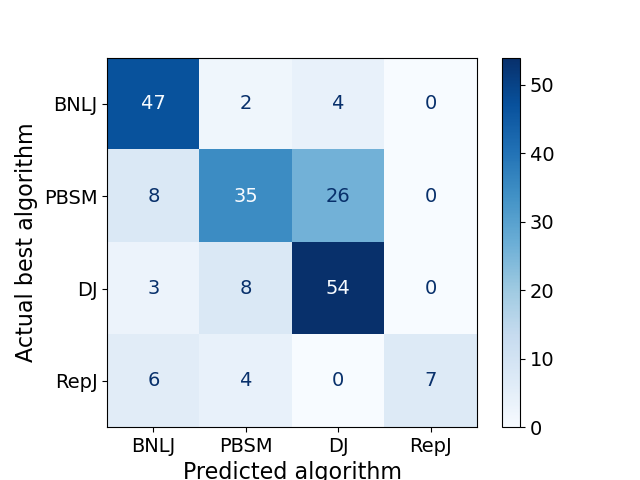
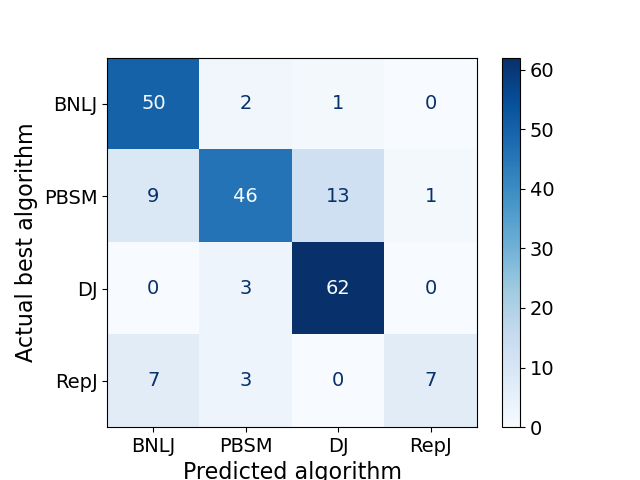
Update data

diff --git a/classification_model.py b/classification_model.py
@@ -6,6 +6,8 @@ from sklearn.ensemble import RandomForestClassifier
 from sklearn.tree import DecisionTreeClassifier
 from sklearn.metrics import plot_confusion_matrix
 from sklearn.metrics import confusion_matrix
+import time
+import numpy as np
 
 import datasets
 from model_interface import ModelInterface
@@ -31,8 +33,6 @@ class ClassificationModel(ModelInterface):
                                  'cardinality_y',	'AVG area_y', 'AVG x_y', 'AVG y_y']
     feature_set1 = ['cardinality_x', 'AVG area_x', 'AVG x_x', 'AVG y_x',
                     'cardinality_y', 'AVG area_y', 'AVG x_y', 'AVG y_y']
-    feature_set1 = ['AVG area_x', 'AVG x_x', 'AVG y_x',
-                    'AVG area_y', 'AVG x_y', 'AVG y_y']
     # Descriptors + histograms
     drop_columns_feature_set2 = ['dataset1', 'dataset2', 'x1_x', 'y1_x', 'x2_x', 'y2_x', 'x1_y', 'y1_y', 'x2_y', 'y2_y',
                                  'join_selectivity', 'mbr_tests_selectivity', 'total_area_x', 'total_margin_x',
@@ -50,9 +50,13 @@ class ClassificationModel(ModelInterface):
     # Join cardinality + MBRs of 4 algorithms
     feature_set4 = ['join_cardinality', 'mbr_bnlj', 'mbr_pbsm', 'mbr_dj', 'mbr_repj']
     feature_set5 = ['join_cardinality', 'mbr_bnlj', 'mbr_pbsm', 'mbr_dj', 'mbr_repj', 'block_size_x', 'block_size_y']
+    feature_set6 = ['cardinality_x', 'AVG area_x', 'AVG x_x', 'AVG y_x', 'E0_x', 'E2_x', 'block_size_x', 'total_area_x', 'total_margin_x', 'total_overlap_x', 'size_std_x', 'block_util_x', 'total_blocks_x',
+                    'cardinality_y', 'AVG area_y', 'AVG x_y', 'AVG y_y', 'E0_y', 'E2_y', 'block_size_y', 'total_area_y', 'total_margin_y', 'total_overlap_y', 'size_std_y', 'block_util_y', 'total_blocks_y',
+                    'intersection_area1', 'intersection_area2', 'jaccard_similarity', 'e0', 'e2', 'join_cardinality', 'mbr_bnlj', 'mbr_pbsm', 'mbr_dj', 'mbr_repj']
+    feature_set7 = ['join_cardinality', 'mbr_bnlj', 'mbr_pbsm', 'mbr_dj', 'mbr_repj', 'block_size_x', 'block_size_y', 'intersection_area1', 'intersection_area2', 'jaccard_similarity']
 
     DROP_COLUMNS = []
-    SELECTED_COLUMNS = feature_set4
+    SELECTED_COLUMNS = feature_set5
 
     def __init__(self, model_name):
         self.clf_model = DecisionTreeClassifier()
@@ -73,6 +77,18 @@ class ClassificationModel(ModelInterface):
         # Fit and save the model
         model = self.clf_model.fit(X_train, y_train)
         pickle.dump(model, open(model_path, 'wb'))
+
+        # Feature importances
+        importances = model.feature_importances_
+
+        output_f = open('data/temp/feature_importances.csv', 'w')
+        output_f.writelines('feature_name,importance_score\n')
+
+        for fname, fscore in zip(ClassificationModel.SELECTED_COLUMNS, importances):
+            print('{},{}'.format(fname, fscore))
+            output_f.writelines('{},{}\n'.format(fname, fscore))
+
+        output_f.close()
 
     def test(self, tabular_path: str, join_result_path: str, model_path: str, model_weights_path=None,
              histogram_path=None) -> (float, float, float, float):

diff --git a/datasets.py b/datasets.py
@@ -475,6 +475,7 @@ def load_data(data_path, target, drop_columns, selected_columns):
     join_df = pd.read_csv(data_path, delimiter='\\s*,\\s*', header=0)
     join_df = pd.merge(join_df, bops_e_values_df, how='left', left_on=['dataset1', 'dataset2'], right_on=['dataset1', 'dataset2'])
     join_df.dropna(inplace=True)
+    # join_df = join_df.sample(frac=0.8)
     dataset1 = join_df['dataset1']
     dataset2 = join_df['dataset2']
     y = join_df[target]
